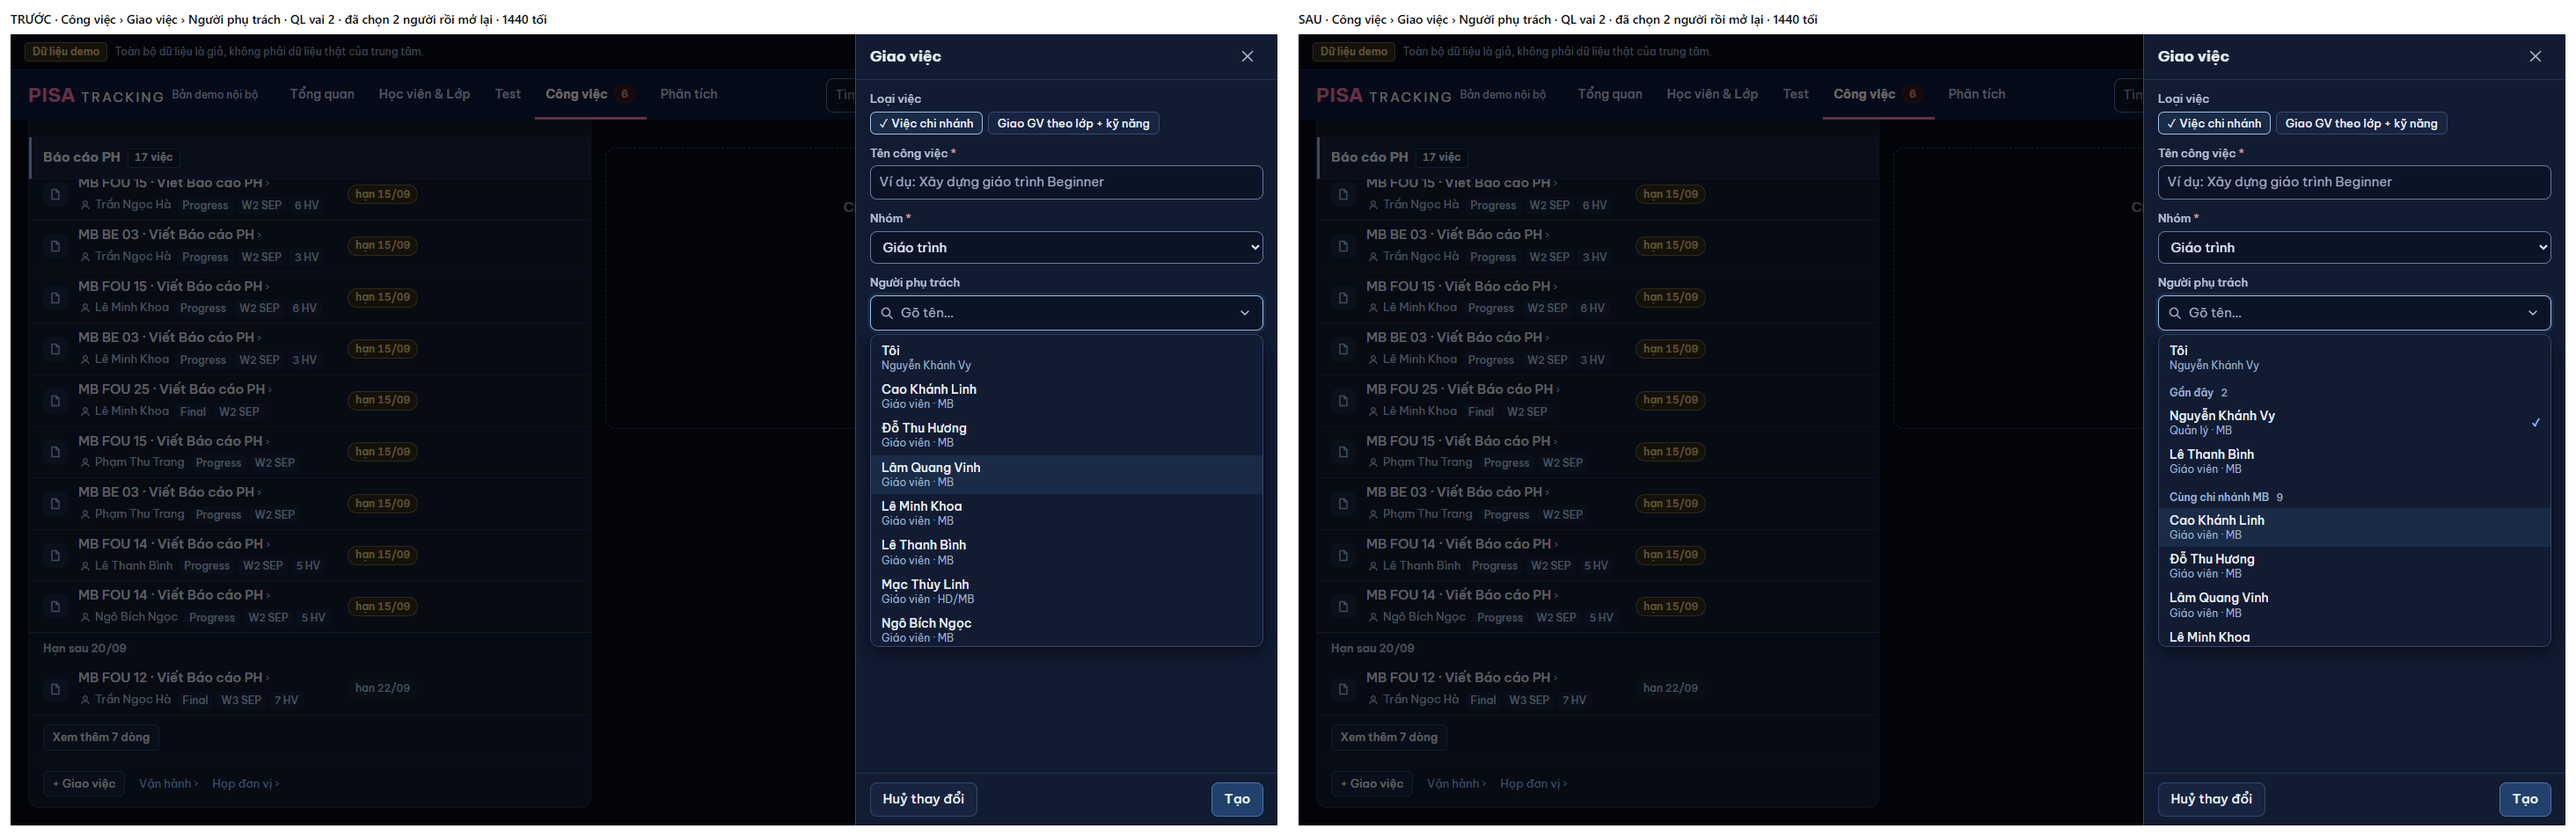
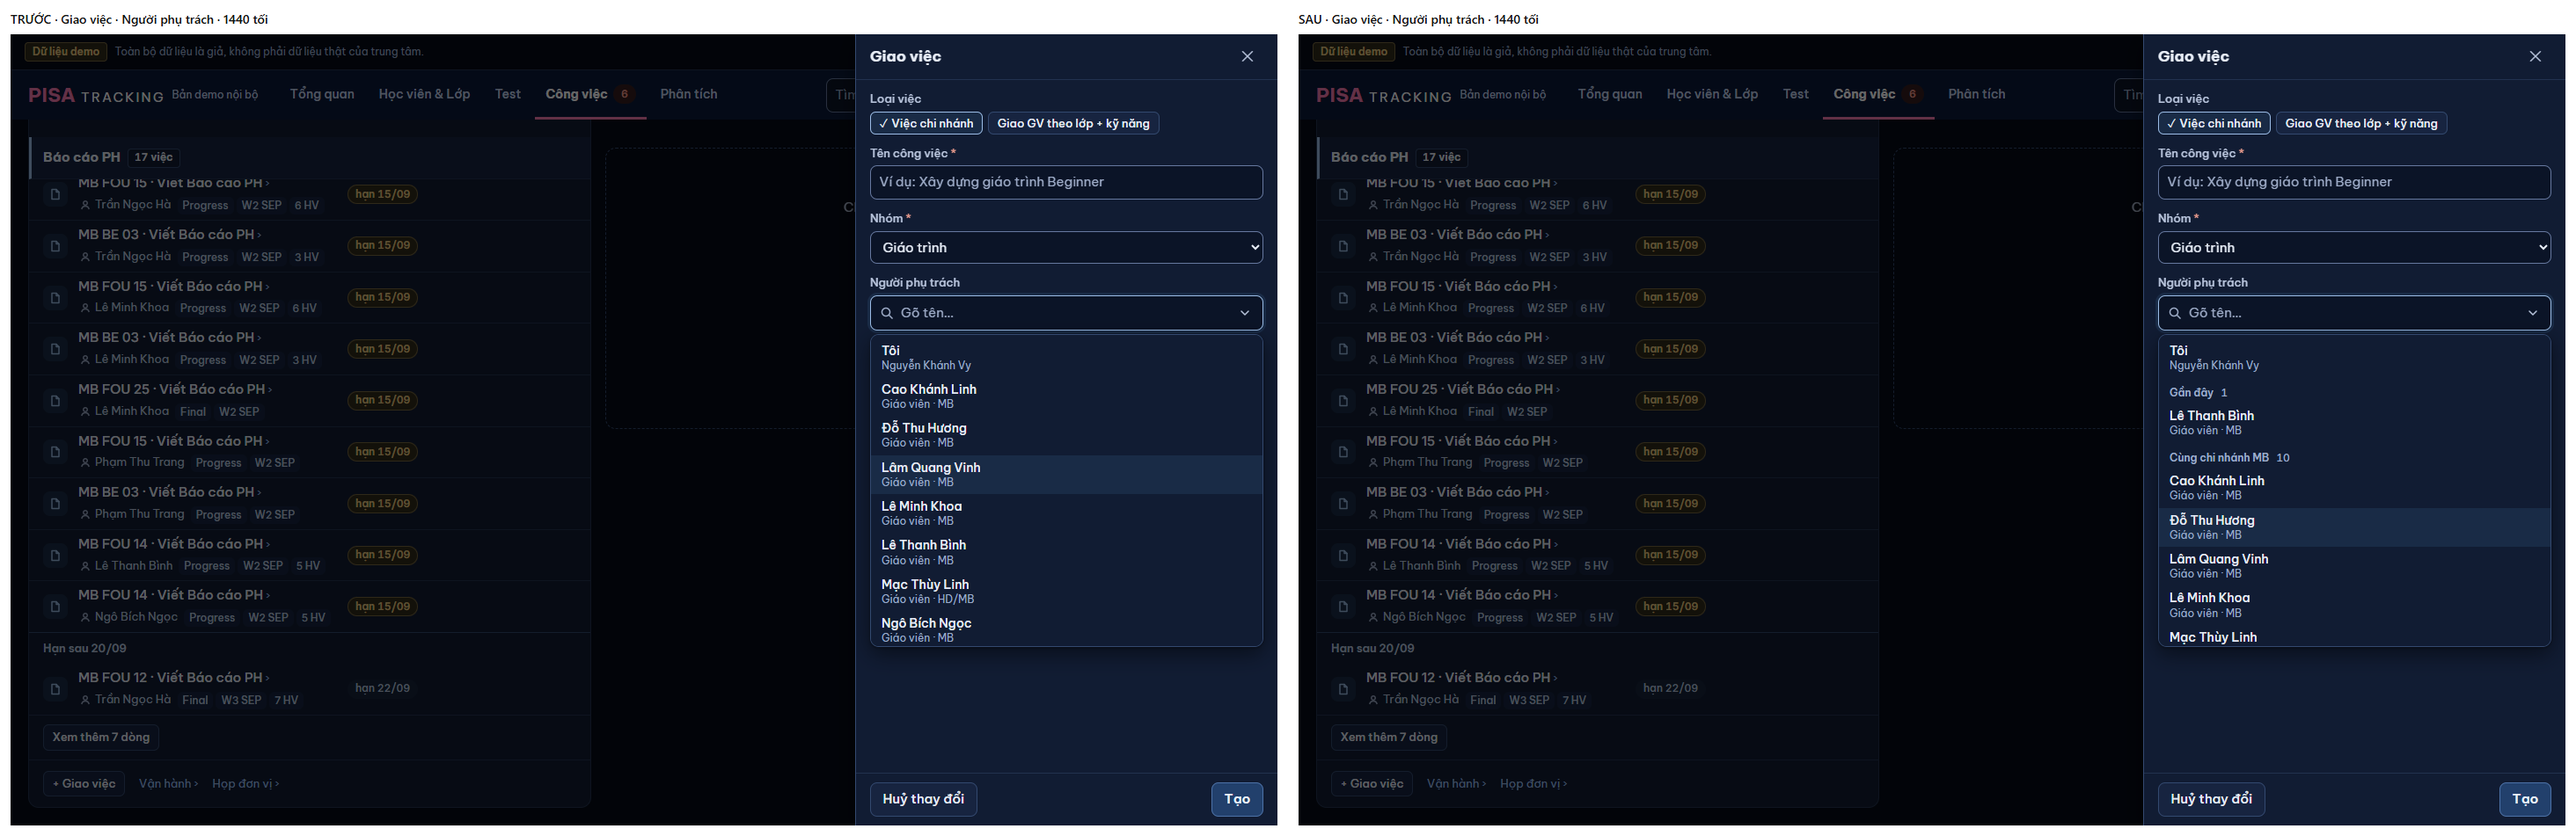
OCHON-GAN-DAY: ô có dòng 'Tôi' thì không đưa chính mình lên Gần đây ([XM-1712]) + phép kiểm + ảnh

diff --git a/server/src/tests/thanhPhanChung.tests.ts b/server/src/tests/thanhPhanChung.tests.ts
@@ -30,6 +30,8 @@ export async function runThanhPhanChungTests(t: YThucTestKit) {
     assert(d.xepGanDay(rows.slice(0, 7), [{ id: 2, ten: 'Người 2' }], N).map((r: any) => r.id).join() === '1,2,3,4,5,6,7', '≤ 7 mục (⑤ A6): giữ nguyên');
     assert(d.xepGanDay(rows, [{ id: 2, ten: 'Tên khác' }], N)[0].id === 1, 'khớp id + tên (ô ds đánh id theo vị trí)');
     assert(d.xepGanDay(rows.map((r: any) => (r.id === 2 ? { ...r, tat: 'đã đủ' } : r)), [{ id: 2, ten: 'Người 2' }], N)[0].id === 1, 'mục tắt không đưa lên');
+    const boToi = d.xepGanDay(rows, [{ id: 5, ten: 'Người 5' }, { id: 2, ten: 'Người 2' }], N, 5);
+    assert(boToi[0].id === 2 && boToi.filter((r: any) => r.nhom === 'Gần đây').length === 1 && boToi.filter((r: any) => r.id === 5).length === 1, 'có dòng "Tôi": người dùng hiện tại không lên Gần đây, vẫn còn một lần trong danh sách');
     let g: any[] = [];
     for (const id of [1, 2, 3, 2, 4]) g = d.themGanDay(g, { id, ten: `Người ${id}` });
     assert(g.map((m) => m.id).join() === '4,2,3', `gần nhất trước, không trùng, tối đa ${d.GAN_DAY_TOI_DA}: ${JSON.stringify(g)}`);
@@ -38,6 +40,7 @@ export async function runThanhPhanChungTests(t: YThucTestKit) {
     assert(/for \(const r of rowsHien\) out\.push/.test(pp) && /term\.trim\(\) \? rows : xepGanDay\(/.test(pp), 'phím ↑ ↓ Enter đi theo `options` dựng từ danh sách đã xếp; đang gõ → không nhóm Gần đây');
     assert((pp.match(/localStorage\.(get|set)Item/g) ?? []).length === 2 && /try \{ return khoaGanDay \?/.test(pp) && /try \{ localStorage\.setItem/.test(pp), 'localStorage bọc try/catch');
     assert(/pisa-gan-day:\$\{session\.user\.id\}/.test(pp) && !/api\.(get|post)\([^)]*gan/.test(pp), 'theo người dùng, không gọi máy chủ');
+    assert(/coToi \? session\?\.user\?\.id : undefined/.test(pp) && /if \(coToi\) out\.push\(\{ kind: 'toi' \}\)/.test(pp), 'bỏ chính mình khỏi Gần đây đúng khi ô có dòng "Tôi"');
   });
 
   check('QC-GAN · Q74 / Q75 / Q77 Cuối khoá + Q83 Xuất báo cáo PH: câu khớp mã (hạn chốt từ mocLoTrinh, Tutor từ mocThuong, 7 ngày của việc Admin) và gắn đúng chỗ', () => {

diff --git a/web/src/ui/PeoplePicker.tsx b/web/src/ui/PeoplePicker.tsx
@@ -271,7 +271,9 @@ export function ChonNguoi({
     setGanDay(moi);
     try { localStorage.setItem(khoaGanDay, JSON.stringify(moi)); } catch { /* chế độ riêng tư / đầy bộ nhớ: chỉ nhớ trong phiên */ }
   };
-  const rowsHien = useMemo(() => (term.trim() ? rows : xepGanDay(rows, ganDay, { ganDay: t('Gần đây'), khac: t('Khác') })), [rows, ganDay, term]);
+  const coToi = choToi && toiHopLe && !nhieu;   // ô có dòng "Tôi" → người dùng hiện tại không vào Gần đây (khỏi hiện hai lần)
+  const rowsHien = useMemo(() => (term.trim() ? rows : xepGanDay(rows, ganDay, { ganDay: t('Gần đây'), khac: t('Khác') }, coToi ? session?.user?.id : undefined)),
+    [rows, ganDay, term, coToi, session?.user?.id]);
   const loading = (!ds && !chiTutor && (tim ? tx.loading : xa.loading)) || (!!tutor && tt.loading && !tt.kq);
   const loiTai = ds || chiTutor ? null : tim ? tx.loi : xa.loi;
   const oId = id ?? `${uid}-o`;
@@ -310,12 +312,12 @@ export function ChonNguoi({
     const out: ChonNguoiOption[] = [];
     if (choTrong && !term.trim()) out.push({ kind: 'trong' });
     if (dau && !term.trim()) out.push({ kind: 'dau' });   // đang gõ tên → ↓ Enter chọn người khớp đầu, không phải dòng trống
-    if (choToi && toiHopLe && !nhieu) out.push({ kind: 'toi' });
+    if (coToi) out.push({ kind: 'toi' });
     for (const r of rowsHien) out.push({ kind: 'nguoi', row: r });
     if (choNgoai && !nhieu) out.push({ kind: 'ngoai', text: term.trim() });
     if (them) out.push({ kind: 'them' });
     return out;
-  }, [choTrong, choToi, toiHopLe, rowsHien, choNgoai, term, them, nhieu, dau]);
+  }, [choTrong, coToi, rowsHien, choNgoai, term, them, nhieu, dau]);
   /** Dòng "tên ngoài" chưa đủ 2 ký tự / dòng nơi gọi tắt (`row.tat`) / tới trần chọn nhiều: hiện mờ, bấm không làm gì, mũi tên bỏ qua. */
   const tat = (opt: ChonNguoiOption) => (opt.kind === 'ngoai' && opt.text.length < 2)
     || (opt.kind === 'nguoi' && (!!opt.row.tat || (day && !daChonIds.has(opt.row.id))));

diff --git a/shared/domain/ganDay.ts b/shared/domain/ganDay.ts
@@ -11,11 +11,12 @@ export type MucGanDay = { id: number; ten: string };
 /**
  * Dời (không nhân đôi) các mục gần đây CÓ trong danh sách hiện tại lên đầu, nhãn nhóm `nhan.ganDay`, gần nhất trước. Mục còn lại giữ nhóm và thứ tự;
  * mục không nhóm nhận `nhan.khac` để danh sách có ≥ 2 nhóm (nhãn hiện). Khớp theo id + tên (ô `ds` của nơi gọi có thể đánh id theo vị trí).
- * Mục tắt (`tat`) không đưa lên. Ít hơn `GAN_DAY_TU` mục hoặc không mục gần đây nào có mặt → giữ nguyên.
+ * Mục tắt (`tat`) không đưa lên. `boId` (người dùng hiện tại khi ô đã có dòng "Tôi") không đưa lên — vẫn nhớ, chỉ không hiện hai lần.
+ * Ít hơn `GAN_DAY_TU` mục hoặc không mục gần đây nào có mặt → giữ nguyên.
  */
-export function xepGanDay<T extends MucGanDay & { nhom?: string; tat?: unknown }>(rows: readonly T[], ganDay: readonly MucGanDay[], nhan: { ganDay: string; khac: string }): T[] {
+export function xepGanDay<T extends MucGanDay & { nhom?: string; tat?: unknown }>(rows: readonly T[], ganDay: readonly MucGanDay[], nhan: { ganDay: string; khac: string }, boId?: number): T[] {
   if (rows.length < GAN_DAY_TU || !ganDay.length) return [...rows];
-  const len = ganDay.flatMap((g) => rows.filter((r) => r.id === g.id && r.ten === g.ten && !r.tat).slice(0, 1));
+  const len = ganDay.filter((g) => g.id !== boId).flatMap((g) => rows.filter((r) => r.id === g.id && r.ten === g.ten && !r.tat).slice(0, 1));
   if (!len.length) return [...rows];
   const da = new Set(len);
   return [...len.map((r) => ({ ...r, nhom: nhan.ganDay })), ...rows.filter((r) => !da.has(r)).map((r) => (r.nhom ? r : { ...r, nhom: nhan.khac }))];

diff --git a/docs/anh/ochon-gan-day/khop-khac.md b/docs/anh/ochon-gan-day/khop-khac.md
@@ -7,7 +7,7 @@ Seed demo 14/09, QL Nguyễn Khánh Vy (vai 2), Công việc › Việc quản l
 
 | Ảnh | Nội dung |
 |---|---|
-| `cap-giao-viec-1440-toi.png` | TRƯỚC: Tôi → danh sách chi nhánh phẳng · SAU: Tôi → **Gần đây 2** (người vừa chọn, gần nhất trước, ✓ ở người đang chọn) → Cùng chi nhánh MB 9 |
+| `cap-giao-viec-1440-toi.png` | TRƯỚC: Tôi → danh sách chi nhánh phẳng · SAU: Tôi → **Gần đây 1** (Lê Thanh Bình; đã chọn cả Nguyễn Khánh Vy = chính mình nhưng không đưa lên vì đã có dòng "Tôi" — [XM-1712]) → Cùng chi nhánh MB 10 |
 | `cap-giao-viec-375-sang.png` | như trên, màn chọn toàn màn 375 (⑤ A7): dòng cao 52 px (≥ 44), nhãn nhóm đúng |
 
 Không ✕ / ⋯ nào đổi; chữ không bị cắt.
@@ -18,7 +18,8 @@ Không ✕ / ⋯ nào đổi; chữ không bị cắt.
 |---|---|---|---|
 | Nhóm "Gần đây" ở đầu, có số | ⑤ A5 | `ChonNguoi` (`ui/PeoplePicker.tsx`) — MỘT chỗ cho mọi ô chọn chung (ChonNguoi, `ChonLoc`, `ChonLop`… đều đi qua đây); hàm thuần `xepGanDay` (`shared/domain/ganDay.ts`) | KHỚP |
 | Thứ tự "Tôi → Gần đây → Chi nhánh" | bảng kê dòng 24 | "Tôi" (dòng riêng) giữ trước, "Gần đây" sau | KHỚP |
-| Không nhân đôi | — | mục gần đây DỜI lên (rời nhóm cũ) → ↑ ↓ Enter đi qua mỗi người một lần, đúng thứ tự hiện | KHỚP (đo: 4 lần ↓ = Tôi · Nguyễn Khánh Vy · Lê Thanh Bình · Cao Khánh Linh) |
+| Không nhân đôi | — | mục gần đây DỜI lên (rời nhóm cũ) → ↑ ↓ Enter đi qua mỗi người một lần, đúng thứ tự hiện | KHỚP (đo 1440: 4 lần ↓ = Tôi · Lê Thanh Bình · Cao Khánh Linh · Đỗ Thu Hương) |
+| **[XM-1712]** chính mình hiện hai lần ("Tôi · Nguyễn Khánh Vy" + "Gần đây · Nguyễn Khánh Vy") | PTA 15/11 | ô có dòng "Tôi" → `xepGanDay(…, boId = người dùng)` không đưa chính mình lên Gần đây; vẫn ghi nhớ (ô không có "Tôi" vẫn đưa lên) | ĐÃ SỬA |
 | Chỉ khi chưa gõ | — | đang gõ → danh sách theo chữ như cũ | KHỚP |
 | Danh sách ngắn | ⑤ A6 (≤ 7 mục giữ dáng cũ) | < 8 mục → không nhóm | KHỚP |
 | Lưu ở đâu | [XM-4] | `localStorage` khoá `pisa-gan-day:{người dùng}:{nhóm}:{nguồn}:{tên ô}`, tối đa 3; đọc / ghi bọc try/catch, hỏng / bị chặn → không nhóm, ô chạy như cũ; 0 request | KHỚP |
